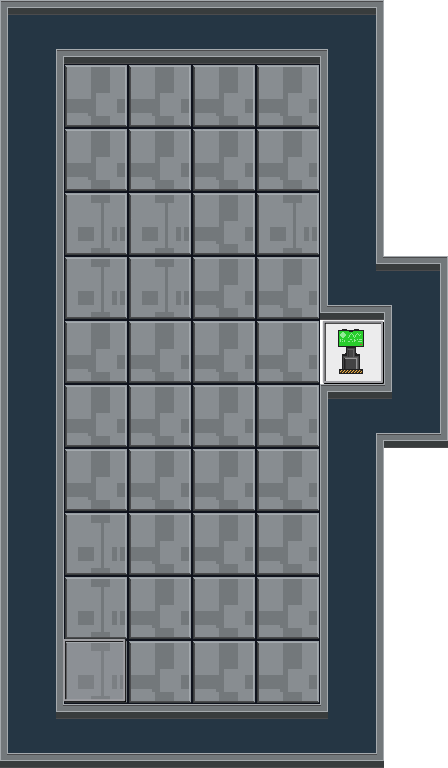
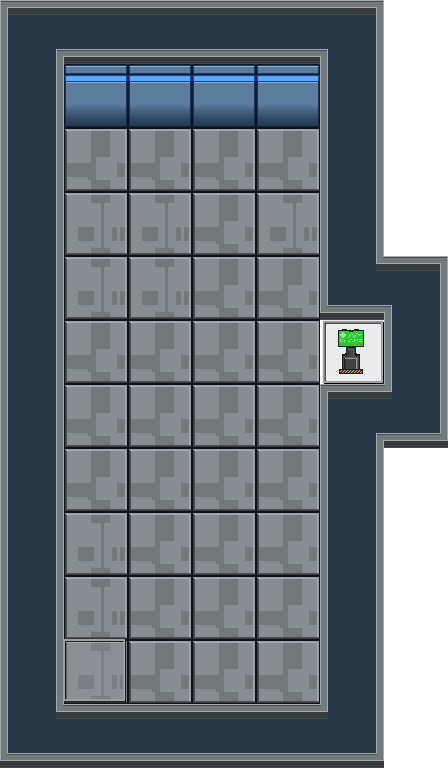
upload final challenge

Changed region(s): [[0.125, 0.0625, 0.7188, 0.1875]]

diff --git a/db/seeds.rb b/db/seeds.rb
@@ -68,45 +68,106 @@
 # map = Map.create(name: "Map 1", data: map1_data.to_json, challenge_id: first_challenge.id)
 
 
-second_challenge = Challenge.new(
-    id: 2,
+# second_challenge = Challenge.new(
+#     id: 2,
+#     code: "second",
+#     title: "Challenge 2",
+#     intro: "En este emocionante primer reto, te convertirás en el controlador de vuelo del intrépido astronauta mientras se desplaza por una avanzada plataforma espacial y supera obstáculos cósmicos.",
+#     premise: "Con los recursos agotándose, tu misión es explorar la plataforma en busca de alimentos esenciales para sobrevivir. Pero no debes dejar que la desesperacion te haga tomar decisiones apresuradas. Algunas de las sustancias que encuentres podrían ser tóxicas. ",
+#     tasks: "¿Podrás tomar decisiones estratégicas y usar tu ingenio para elegir las cajas correctas y mantener al astronauta a salvo mientras luchas por tu supervivencia en el espacio profundo?",
+#     notes: ""
+# )
+# second_challenge.save
+
+# map2_data = {
+#     :collitions=>[
+#         [200, 201, 201, 201, 201, 202,   0],
+#         [230,   0,   0,   0,   0, 232,   0],
+#         [225,   0,   0,   0,   0, 232,   0],
+#         [225,   0,   0,   0,   0, 232,   0],
+#         [225,   0,   0,   0,   0, 260, 202],
+#         [225,   0,   0,   0,   0,   0, 232],
+#         [225,   0,   0,   0,   0, 200, 262],
+#         [225,   0,   0,   0,   0, 232,   0],
+#         [225,   0,   0,   0,   0, 225,   0],
+#         [225,   0,   0,   0,   0, 225,   0],
+#         [225,   0,   0,   0,   0, 225,   0],
+#         [251, 201, 201, 201, 201, 253,   0]
+#     ],
+#     :ground=>[
+#         [  0,   0,   0,   0,   0,   0,   0],
+#         [  0, 304, 304, 304, 304,   0,   0],
+#         [  0, 304, 304, 304, 304,   0,   0],
+#         [  0, 305, 305, 304, 305,   0,   0],
+#         [  0, 305, 305, 304, 304,   0,   0],
+#         [  0, 304, 304, 304, 304, 431,   0],
+#         [  0, 304, 304, 304, 304,   0,   0],
+#         [  0, 304, 304, 304, 304,   0,   0],
+#         [  0, 305, 304, 304, 304,   0,   0],
+#         [  0, 305, 304, 304, 304,   0,   0],
+#         [  0, 305, 304, 304, 304,   0,   0],
+#         [  0,   0,   0,   0,   0,   0,   0]
+#     ],
+#     :boxes=>[],
+#     :objects=>[
+#         {
+#             :height=>60, 
+#             :id=>1, 
+#             :name=>"Player", 
+#             :width=>60, :x=>64, :y=>640
+#         }, 
+#         {
+#             :height=>60.2112328496694, 
+#             :id=>2,
+#             :name=>"Goal", 
+#             :width=>58.237094067713, :x=>320, :y=>320
+#         }
+#     ]
+# }
+
+# map = Map.create(name: "Map 1", data: map2_data.to_json, challenge_id: 2)
+
+
+third_challenge = Challenge.new(
+    id: 3,
     code: "second",
-    title: "Challenge 2",
-    intro: "En este emocionante primer reto, te convertirás en el controlador de vuelo del intrépido astronauta mientras se desplaza por una avanzada plataforma espacial y supera obstáculos cósmicos.",
-    premise: "Con los recursos agotándose, tu misión es explorar la plataforma en busca de alimentos esenciales para sobrevivir. Pero no debes dejar que la desesperacion te haga tomar decisiones apresuradas. Algunas de las sustancias que encuentres podrían ser tóxicas. ",
-    tasks: "¿Podrás tomar decisiones estratégicas y usar tu ingenio para elegir las cajas correctas y mantener al astronauta a salvo mientras luchas por tu supervivencia en el espacio profundo?",
+    title: "Final Challenge",
+    intro: "Eres el último astronauta en una estación espacial a la deriva, ahora deberás utilizar tus habilidades de movimiento y cálculo al máximo para sobrevivir.",
+    premise: "La clave para el éxito radica en la simplicidad. Con las comunicaciones casi interrumpidas, deberás usar la menor cantidad de instrucciones posible para garantizar una misión sin contratiempos. Utiliza tus habilidades y lo aprendido para trazar la ruta más efectiva y asegurarte de que la misión se complete sin interrupciones.",
+    tasks: "¡La supervivencia del astronauta y la recolección de alimentos ahora dependen de tu destreza.",
     notes: ""
 )
-second_challenge.save
+third_challenge.save
 
-map2_data = {
-    :collitions=>[
-        [200, 201, 201, 201, 201, 202,   0],
-        [230,   0,   0,   0,   0, 232,   0],
-        [225,   0,   0,   0,   0, 232,   0],
-        [225,   0,   0,   0,   0, 232,   0],
-        [225,   0,   0,   0,   0, 260, 202],
-        [225,   0,   0,   0,   0,   0, 232],
-        [225,   0,   0,   0,   0, 200, 262],
-        [225,   0,   0,   0,   0, 232,   0],
-        [225,   0,   0,   0,   0, 225,   0],
-        [225,   0,   0,   0,   0, 225,   0],
-        [225,   0,   0,   0,   0, 225,   0],
-        [251, 201, 201, 201, 201, 253,   0]
+
+map3_data = {
+    :collitions=>[    
+        [  0,   0, 257, 193,   0,   0,   0],
+        [  0,   0,   0, 251, 193,   0,   0],
+        [257, 193,   0,   0, 251, 193,   0],
+        [  0, 251, 193,   0,   0, 251, 193],
+        [248, 189, 251, 193,   0,   0, 225],
+        [  0, 248, 190, 225,   0,   0, 225],
+        [  0, 248, 190, 225,   0,   0, 225],
+        [248, 189, 191, 253,   0,   0, 225],
+        [  0, 191, 253,   0,   0, 191, 253],
+        [257, 253,   0,   0, 191, 253,   0],
+        [  0,   0,   0, 191, 253,   0,   0],
+        [  0,   0, 257, 253,   0,   0,   0]
     ],
-    :ground=>[
-        [  0,   0,   0,   0,   0,   0,   0],
-        [  0, 304, 304, 304, 304,   0,   0],
-        [  0, 304, 304, 304, 304,   0,   0],
-        [  0, 305, 305, 304, 305,   0,   0],
-        [  0, 305, 305, 304, 304,   0,   0],
-        [  0, 304, 304, 304, 304, 431,   0],
-        [  0, 304, 304, 304, 304,   0,   0],
-        [  0, 304, 304, 304, 304,   0,   0],
-        [  0, 305, 304, 304, 304,   0,   0],
-        [  0, 305, 304, 304, 304,   0,   0],
-        [  0, 305, 304, 304, 304,   0,   0],
-        [  0,   0,   0,   0,   0,   0,   0]
+    :ground=>[    
+        [304, 304,   0,   0,   0,   0,   0],
+        [304, 304, 304,   0,   0,   0,   0],
+        [  0,   0, 304, 304,   0,   0,   0],
+        [  0,   0,   0, 304, 304,   0,   0],
+        [  0,   0,   0,   0, 304, 304,   0],
+        [  0,   0,   0,   0, 304, 304,   0],
+        [  0,   0,   0,   0, 304, 304,   0],
+        [  0,   0,   0,   0, 304, 304,   0],
+        [  0,   0,   0, 304, 304,   0,   0],
+        [  0,   0, 304, 304,   0,   0,   0],
+        [304, 304, 304,   0,   0,   0,   0],
+        [304, 304,   0,   0,   0,   0,   0]
     ],
     :boxes=>[],
     :objects=>[
@@ -114,15 +175,15 @@ map2_data = {
             :height=>60, 
             :id=>1, 
             :name=>"Player", 
-            :width=>60, :x=>64, :y=>640
+            :width=>60, :x=>5, :y=>780
         }, 
         {
             :height=>60.2112328496694, 
             :id=>2,
             :name=>"Goal", 
-            :width=>58.237094067713, :x=>320, :y=>320
+            :width=>58.237094067713, :x=>5, :y=>5
         }
     ]
 }
 
-map = Map.create(name: "Map 1", data: map2_data.to_json, challenge_id: 2)
+map = Map.create(name: "Map 3", data: map3_data.to_json, challenge_id: 3)
